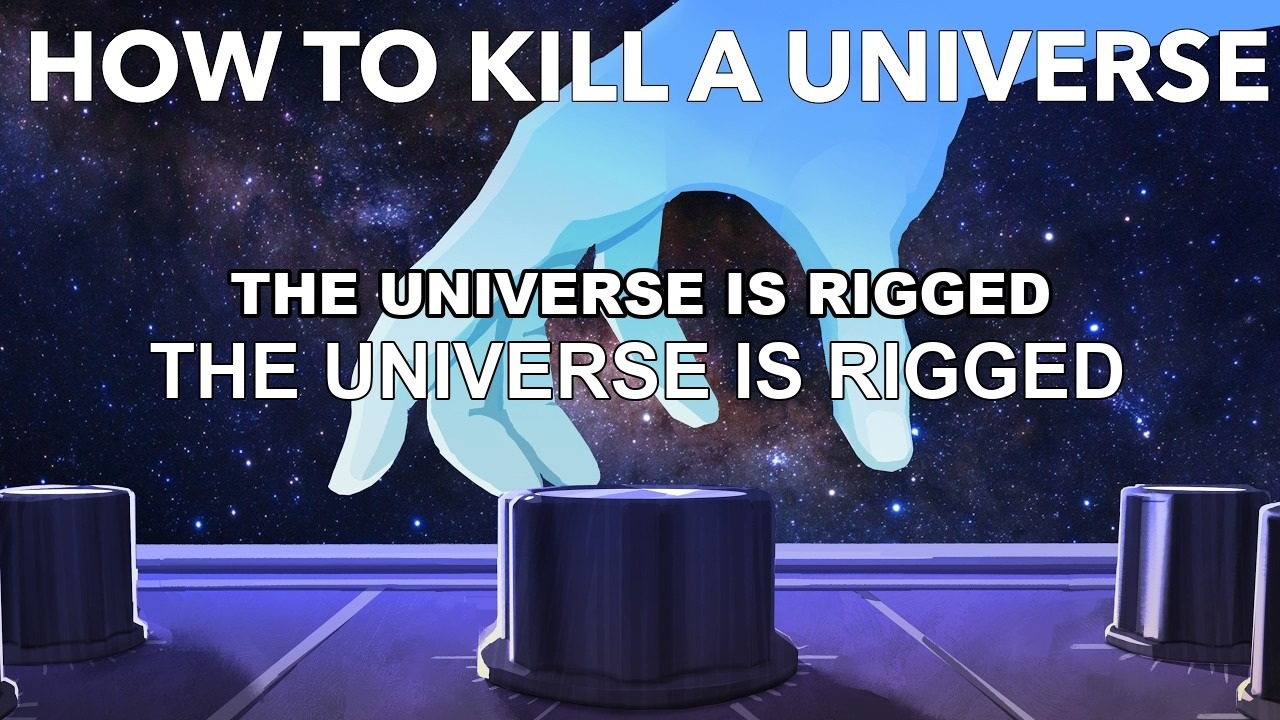
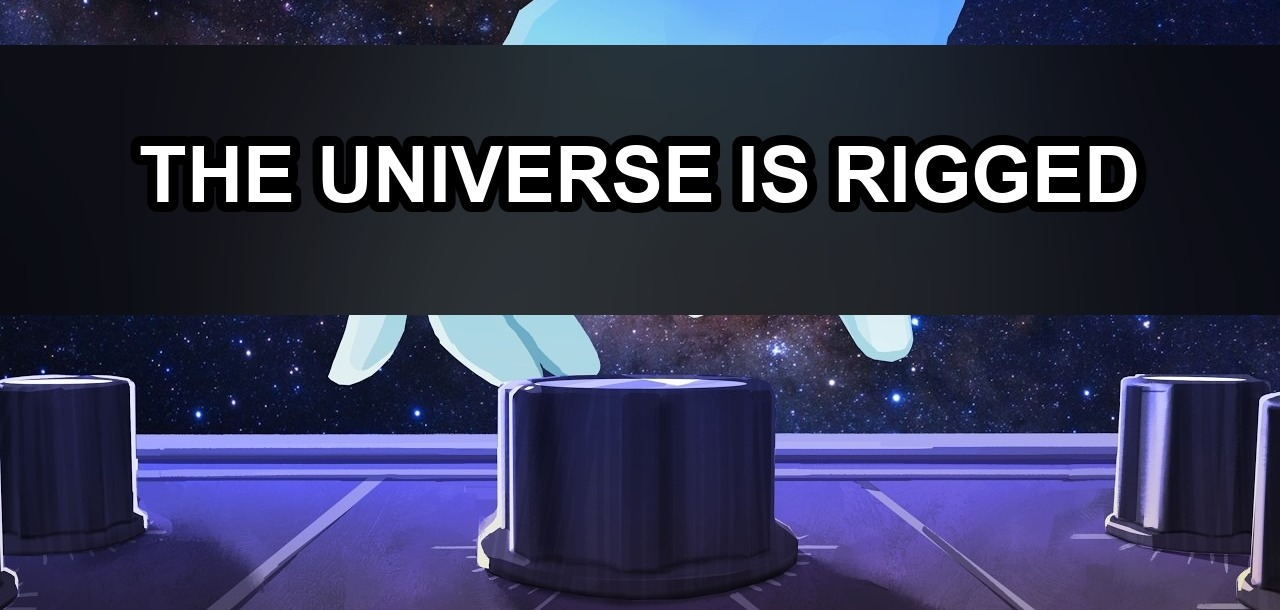
content(medium): apply fine-tuning review fixes + single-overlay hero

diff --git a/nextjs/public/medium/youtube-most-controversial-idea-physics-oi91ke_wocs/index.html b/nextjs/public/medium/youtube-most-controversial-idea-physics-oi91ke_wocs/index.html
@@ -5,7 +5,7 @@
   <meta name="viewport" content="width=device-width, initial-scale=1">
   <meta name="robots" content="index,follow">
   <meta name="article:status" content="preview">
[2 lines of base64/hex data omitted]
   <link rel="canonical" href="https://www.maxpetrusenko.com/medium/youtube-most-controversial-idea-physics-oi91ke_wocs/">
   <title>The Universe Looks Rigged, and Physics Can&#39;t Agree Why</title>
   <style>
@@ -80,9 +80,9 @@
 <body>
   <main>
 <h1>The Universe Looks Rigged, and Physics Can&#39;t Agree Why</h1>
-<p><em>Roughly thirty numbers decide whether stars, carbon, and you exist. Nudge almost any of them and the whole thing goes dark. Nobody knows who set them.</em></p>
+<p><em>A few dozen numbers decide whether stars, carbon, and you exist. Nudge almost any of them and the whole thing goes dark. Nobody knows who set them.</em></p>
 <figure><img src="/medium/youtube-most-controversial-idea-physics-oi91ke_wocs/assets/hero-overlay.jpg" alt="The cosmic microwave background mapped across the sky."></figure>
-<blockquote><p>Cosmological fine-tuning is the finding that the fundamental constants of physics — the strength of gravity, the mass of a proton, the energy of empty space — sit inside the narrow ranges that permit stars, chemistry, and life. Change most of them by a few percent and the universe produces nothing complex enough to notice it. Physics can measure this. It cannot yet explain it.</p></blockquote>
+<blockquote><p>Cosmological fine-tuning is the finding that the fundamental constants of physics — the strength of gravity, the mass of a proton, the energy of empty space — appear restricted to relatively narrow life-permitting ranges, although the width of those ranges depends on what is varied and what is held fixed. Nudge them and the universe produces nothing complex enough to notice it. Physics can measure this. It cannot yet explain it.</p></blockquote>
 <p>The transcript lingers on the carbon problem because it is a physical detective story. Hoyle could see that the reaction should fail, then predicted the missing resonance before the laboratory found it. The prediction was close enough to be useful: the measured state appeared near 7.65 MeV, a small mismatch beside a result that changed the history of chemistry.</p>
 <p>In 1953 the astronomer Fred Hoyle was staring at a number that should not have existed: the amount of carbon in the universe. Stars build elements by fusion, hydrogen into helium, helium into beryllium-8, and that part runs smoothly. But carbon needs three helium nuclei to fuse in near-simultaneity, and the intermediate step, beryllium-8, survives for about 10⁻¹⁶ of a second before falling apart. Run the arithmetic and the third helium nucleus almost never arrives in time. On paper, stars should make almost no carbon. In reality, carbon is the fourth most abundant element in the cosmos, and you are largely built from it.</p>
 <p>Hoyle refused to let the contradiction sit. He reasoned that carbon-12 must have an undiscovered excited energy state, a resonance, near 7.68 megaelectronvolts, one that would catch the reaction at exactly the right energy and boost it by a factor of tens of millions. He was visiting Caltech, so he walked into the experimental lab and asked them to look. They found the resonance a hair below his prediction, near 7.65 MeV (<a href="https://arxiv.org/abs/2110.07783" target="_blank" rel="noopener noreferrer">Adams, <em>Physics Reports</em>, 2019</a>). Shift that Hoyle resonance up a few percent and stars make essentially no carbon. Shift it down and they make carbon but almost no oxygen. The level sits where both elements, the backbone of biochemistry, can form.</p>
@@ -91,33 +91,32 @@
 <h2>The thirty dials nobody chose</h2>
 <p>The laws of physics are equations, and inside those equations sit constants: the strength of gravity, the masses of particles, the couplings of forces. The mathematics is inert until you fill those numbers in, and the numbers cannot be derived from the theory. You have to go out and measure them by asking nature directly. Henry Cavendish did exactly that for gravity in 1798, suspending two lead spheres from a torsion wire in a sealed shed and watching them twist toward two 350-pound balls, a pull about the weight of a dust speck (<a href="https://royalsocietypublishing.org/doi/10.1098/rstl.1798.0022" target="_blank" rel="noopener noreferrer">Cavendish, <em>Phil. Trans. R. Soc.</em>, 1798</a>). He had to read the deflection through a telescope from outside, because his own body heat would have stirred the air enough to drown the signal. The answer, refined ever since, is about 6.674 × 10⁻¹¹ in metric units (<a href="https://physics.nist.gov/cgi-bin/cuu/Value?bg" target="_blank" rel="noopener noreferrer">NIST CODATA</a>).</p>
 <figure><img src="/medium/youtube-most-controversial-idea-physics-oi91ke_wocs/images/body-frame-2.jpg" alt="Einstein&#39;s complaint about the cosmological constant, shown in the source video."></figure>
-<p>Units like meters and kilograms are human inventions, so the raw value is arbitrary. What is not arbitrary are the ratios. A proton weighs 1,836 times as much as an electron, and that figure holds no matter how you measure (<a href="https://physics.nist.gov/cgi-bin/cuu/Value?mpsme" target="_blank" rel="noopener noreferrer">NIST CODATA</a>). Physicists count roughly thirty such dimensionless constants that the theories leave free. Nothing in the theory fixes their values. Physicists therefore turn the dials and ask what kind of universe each setting permits. So turn some dials.</p>
+<p>Units like meters and kilograms are human inventions, so the raw value is arbitrary. What is not arbitrary are the ratios. A proton weighs 1,836 times as much as an electron, and that figure holds no matter how you measure (<a href="https://physics.nist.gov/cgi-bin/cuu/Value?mpsme" target="_blank" rel="noopener noreferrer">NIST CODATA</a>). Physicists count on the order of a few dozen independent dimensionless parameters that the theories leave free. Nothing in the theory fixes their values. Physicists therefore turn the dials one at a time, holding the other parameters fixed, and ask what kind of universe each setting permits. So turn some dials.</p>
 <h2>Turning the dials kills universes fast</h2>
 <ul>
-<li><strong>The neutron-proton mass gap.</strong> A neutron outweighs a proton by 1.29 MeV, about 0.14 percent. That tiny excess lets a lone neutron decay into a proton while leaving the proton stable. Reverse it and protons would capture their electrons and decay into neutrons, hydrogen atoms would fall apart, and the periodic table would never open. You would get an eternity of inert neutrons and nothing else.</li>
-<li><strong>The strong force.</strong> Fusion in the Sun begins by binding two protons into deuterium, held together by a mere 2.2 MeV. Weaken the strong force by a few percent and deuterium unbinds, the fusion chain never lights, and there are no stars to forge the elements or scatter them across space. No stardust, no planets, no chemistry.</li>
+<li><strong>The neutron-proton mass gap.</strong> A neutron outweighs a proton by 1.29 MeV, about 0.14 percent. That tiny excess lets a lone neutron decay into a proton while leaving the proton stable. Reverse it and protons would capture their electrons and decay into neutrons, hydrogen atoms would fall apart, and the periodic table would never open. With nothing else adjusted, you would be left with an eternity of inert neutrons and little else.</li>
+<li><strong>The strong force.</strong> Fusion in the Sun begins by binding two protons into deuterium, held together by a mere 2.2 MeV. Weaken the strong force by a few percent and deuterium unbinds, the fusion chain never lights, and stars could not form to forge the elements or scatter them across space. No stardust, no planets, no chemistry.</li>
 <li><strong>Gravity.</strong> Gravity is absurdly feeble, about 10³⁶ times weaker than the electric repulsion between two protons, which is why a fridge magnet defeats an entire planet. Make it a million times stronger and it is still far weaker than the other forces, yet stars would now burn out in roughly 10,000 years instead of 10 billion, far too fast for anything interesting to evolve.</li>
 </ul>
 <p>The pattern is striking. As Geraint Lewis, an astrophysicist who has spent years modeling these scenarios, puts it, killing a universe is easy: you rob it of the complexity needed to store information, and you are left with something guaranteed to stay dead.</p>
 <h2>The worst prediction in the history of physics</h2>
 <p>The sharpest case is also the most humiliating one for physics. In the late 1990s two teams, one led by Saul Perlmutter at Berkeley and one by Brian Schmidt and Adam Riess, used type Ia supernovae as standard candles to clock how fast cosmic expansion was slowing. It wasn&#39;t slowing. It was speeding up. Something was pushing space apart, and they had discovered dark energy, work that won the 2011 Nobel Prize (<a href="https://www.nobelprize.org/prizes/physics/2011/press-release/" target="_blank" rel="noopener noreferrer">NobelPrize.org</a>).</p>
 <p>Here is the wound.</p>
-<p>Here is the wound.</p>
 <figure><img src="/medium/youtube-most-controversial-idea-physics-oi91ke_wocs/images/body-frame-3.jpg" alt="An annotated passage on the anthropic condition, from the source video."></figure>
-<p>The obvious candidate for dark energy is the energy of empty space itself, which quantum field theory describes as a seething field of virtual particles. When you calculate how much energy that vacuum should carry, the answer comes out about 10¹²⁰ times larger than what we measure. The mismatch dwarfs every ordinary rounding error and stands as the largest between theory and observation ever recorded, often called the worst prediction in physics. And the value we actually live with is fine-tuned: crank dark energy up by even a factor of a hundred and matter dilutes before it can clump, so galaxies never form.</p>
+<p>The obvious candidate for dark energy is the energy of empty space itself, which quantum field theory describes as a seething field of virtual particles. When you calculate how much energy that vacuum should carry, naive estimates can differ from the observed value by as much as roughly 120 orders of magnitude. The mismatch dwarfs every ordinary rounding error and stands as the largest between theory and observation ever recorded, often called the worst prediction in physics. And the value we actually live with is fine-tuned: crank dark energy up by even a factor of a hundred and matter dilutes before it can clump, so galaxies never form.</p>
 <p>Then comes the part I find genuinely startling. In 1987, a full decade before the measurement, Steven Weinberg reasoned that because galaxies exist and we exist to see them, the cosmological constant had to be small but plausibly nonzero, only a few times the density of matter (<a href="https://link.aps.org/doi/10.1103/PhysRevLett.59.2607" target="_blank" rel="noopener noreferrer">Weinberg, <em>Phys. Rev. Lett.</em>, 1987</a>). He used our own existence as data and predicted roughly what the telescopes later found. Einstein, by contrast, had introduced that same constant in 1917 to hold the universe still, then spent years hating it, writing to Georges Lemaître that he could not believe &quot;such an ugly thing&quot; was real in nature. It is real. The popular line that he called it his biggest blunder is second-hand, traceable to a George Gamow retelling rather than to Einstein&#39;s own pen, so treat it as folklore.</p>
 <h2>It is not only the constants</h2>
-<p>Two more knobs sit outside the list of constants and look just as tuned. The first is the universe&#39;s starting condition: it began in an extraordinarily low-entropy, smoothly spread state, which is what gave matter room to collapse into stars and galaxies and gave time its forward direction. Had everything begun clumped into black holes, that usable energy would already be spent. The second is dimensionality. We live with three dimensions of space and one of time. In two spatial dimensions almost nothing complex is possible; in four, stable orbits fall apart; and nothing in relativity forbids adding a second dimension of time, though what physics would even mean there is hard to picture.</p>
+<p>Two more knobs sit outside the list of constants and look just as tuned. The first is the universe&#39;s starting condition: it began in an extraordinarily low-entropy, smoothly spread state, which is what gave matter room to collapse into stars and galaxies and gave time its forward direction. Had everything begun clumped into black holes, that usable energy would already be spent. The second is dimensionality. We live with three dimensions of space and one of time. With familiar inverse-square-type force laws generalized to other dimensions, stable planetary and atomic structures become difficult or impossible, which makes three spatial dimensions unusually hospitable to complexity. Nothing in relativity forbids adding a second dimension of time, though what physics would even mean there is hard to picture.</p>
 <h2>So who set the dials?</h2>
-<p>This is where physics stops being tidy and the debate turns loud. Four answers compete, and none is comfortable.</p>
+<p>This is where physics stops being tidy and the debate turns loud. Four broad families of explanation recur, and none is comfortable.</p>
 <p>The deflationary one is selection: we observe a life-permitting universe because only life-permitting universes contain observers. Douglas Adams captured it with a puddle that wakes after rain, marvels that its hole fits it so perfectly, and concludes the hole must have been made for it. Neat, but it explains our survival without explaining why any such universe exists at all.</p>
 <p>The second answer is that a deeper theory will one day derive the constants and dissolve the mystery. Maybe. But even a final theory that fixes every number would only relocate the question, because the library of possible mathematics is infinite and our universe runs on one slim volume of it. Why that volume?</p>
 <p>The third answer is theological: a fine-tuner. The book <em>A Fortunate Universe</em> is co-written by Lewis, an atheist, and Luke Barnes, a theist, precisely so the same evidence gets argued from both sides (<a href="https://www.cambridge.org/core/books/fortunate-universe/9CB2BCF0E7A2F0BD3AC1DE58FD42DA85" target="_blank" rel="noopener noreferrer">Cambridge University Press, 2016</a>). Hoyle himself, no churchgoer, wrote that &quot;a superintellect has monkeyed with physics&quot; (<a href="https://calteches.library.caltech.edu/527/" target="_blank" rel="noopener noreferrer">Hoyle, <em>Engineering and Science</em>, 1981</a>).</p>
 <p>The fourth is the multiverse: an unfathomable number of universes with the dials set every possible way, most of them sterile, ours among the rare fertile few. Martin Rees, who framed the whole problem around six numbers in <em>Just Six Numbers</em>, leans this way, and so do many working cosmologists. It has independent motivation from inflationary cosmology, which is its main defense against the charge that it merely renames the puzzle.</p>
 <h2>What to remember</h2>
-<p>Fine-tuning remains an open measurement in search of an explanation. It does not establish a designer. It is a measurement in search of an explanation, and the leading explanations — brute selection, a deeper theory, a creator, a multiverse — each buy their tidiness by pushing the strangeness somewhere you cannot see. The same data sends Hoyle toward a superintellect and Rees toward parallel worlds.</p>
+<p>Fine-tuning remains an open measurement in search of an explanation. It does not establish a designer. The leading explanations — brute selection, a deeper theory, a creator, a multiverse — each buy their tidiness by pushing the strangeness somewhere you cannot see. The same data sends Hoyle toward a superintellect and Rees toward parallel worlds.</p>
 <p>If you take one thing from it, take the discipline Weinberg modeled: treat &quot;we exist&quot; as evidence and see what it forces the universe to be, rather than shutting the debate down because the conclusions resist a tidy ending. Read <em>A Fortunate Universe</em> if you want the argument built carefully from both sides, and keep the tab open.</p>
-<p>Physics remains suspended between measurement and explanation. As John Wheeler put it, as the island of knowledge grows, so does the shoreline of ignorance. We have measured a universe that appears rigged for us, and the fact that we can even ask why is itself one of the improbable things the dials made possible. For a useful next read, try <a href="https://medium.com/@max.petrusenko/the-tournament-that-made-cooperation-look-like-a-cosmic-filter-74f94b7f5667" target="_blank" rel="noopener noreferrer">The Tournament That Made Cooperation Look Like a Cosmic Filter</a>, another piece about the big questions physics keeps asking.</p>
+<p>Physics remains suspended between measurement and explanation. As John Wheeler put it, as the island of knowledge grows, so does the shoreline of ignorance. We have measured a universe whose parameters appear unusually hospitable to complexity and observers, and the fact that we can even ask why is itself one of the improbable things the dials made possible. For a useful next read, try <a href="https://medium.com/@max.petrusenko/the-tournament-that-made-cooperation-look-like-a-cosmic-filter-74f94b7f5667" target="_blank" rel="noopener noreferrer">The Tournament That Made Cooperation Look Like a Cosmic Filter</a>, another piece about the big questions physics keeps asking.</p>
 <h2>Sources</h2>
 <p><a href="https://arxiv.org/abs/2110.07783" target="_blank" rel="noopener noreferrer">Adams, <em>Physics Reports</em>, 2019</a> | <a href="https://royalsocietypublishing.org/doi/10.1098/rstl.1798.0022" target="_blank" rel="noopener noreferrer">Cavendish, <em>Phil. Trans. R. Soc.</em>, 1798</a> | <a href="https://physics.nist.gov/cgi-bin/cuu/Value?bg" target="_blank" rel="noopener noreferrer">NIST CODATA</a> | <a href="https://physics.nist.gov/cgi-bin/cuu/Value?mpsme" target="_blank" rel="noopener noreferrer">NIST CODATA</a> | <a href="https://www.nobelprize.org/prizes/physics/2011/press-release/" target="_blank" rel="noopener noreferrer">NobelPrize.org</a></p>
 <h2>About the author</h2>
